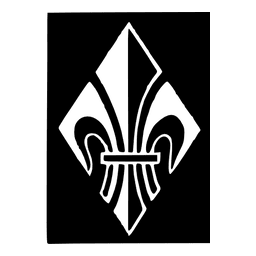
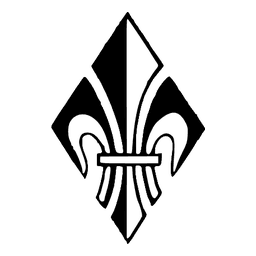
Brand: Lilie cut free of the letterhead's black field
The emblem is a white lily on a black rectangle; drawn as an ink mask that
rectangle showed as a black block. Cut from the letterhead at full size, the
field removed, the lily itself as ink on transparent (170x256, 16 colours).
The favicon follows.

Claude-Session: https://claude.ai/code/session_01MrfUs1yTGCHUP6afURvz47

diff --git a/src/components/brand/index.tsx b/src/components/brand/index.tsx
@@ -32,8 +32,8 @@ function Mark({
   );
 }
 
-/** The Lilie in its rhombus: the bund's emblem (mobile top bar, standalone pages).
- * Decorative: the wordmark or title next to it already names the page. */
+/** The Lilie from the letterhead emblem, cut free of its black field (mobile top bar,
+ * standalone pages). Decorative: the wordmark or title next to it already names the page. */
 export function Lilie({ className }: { className?: string }) {
   return <Mark image={lilie} position="center" className={className} />;
 }
